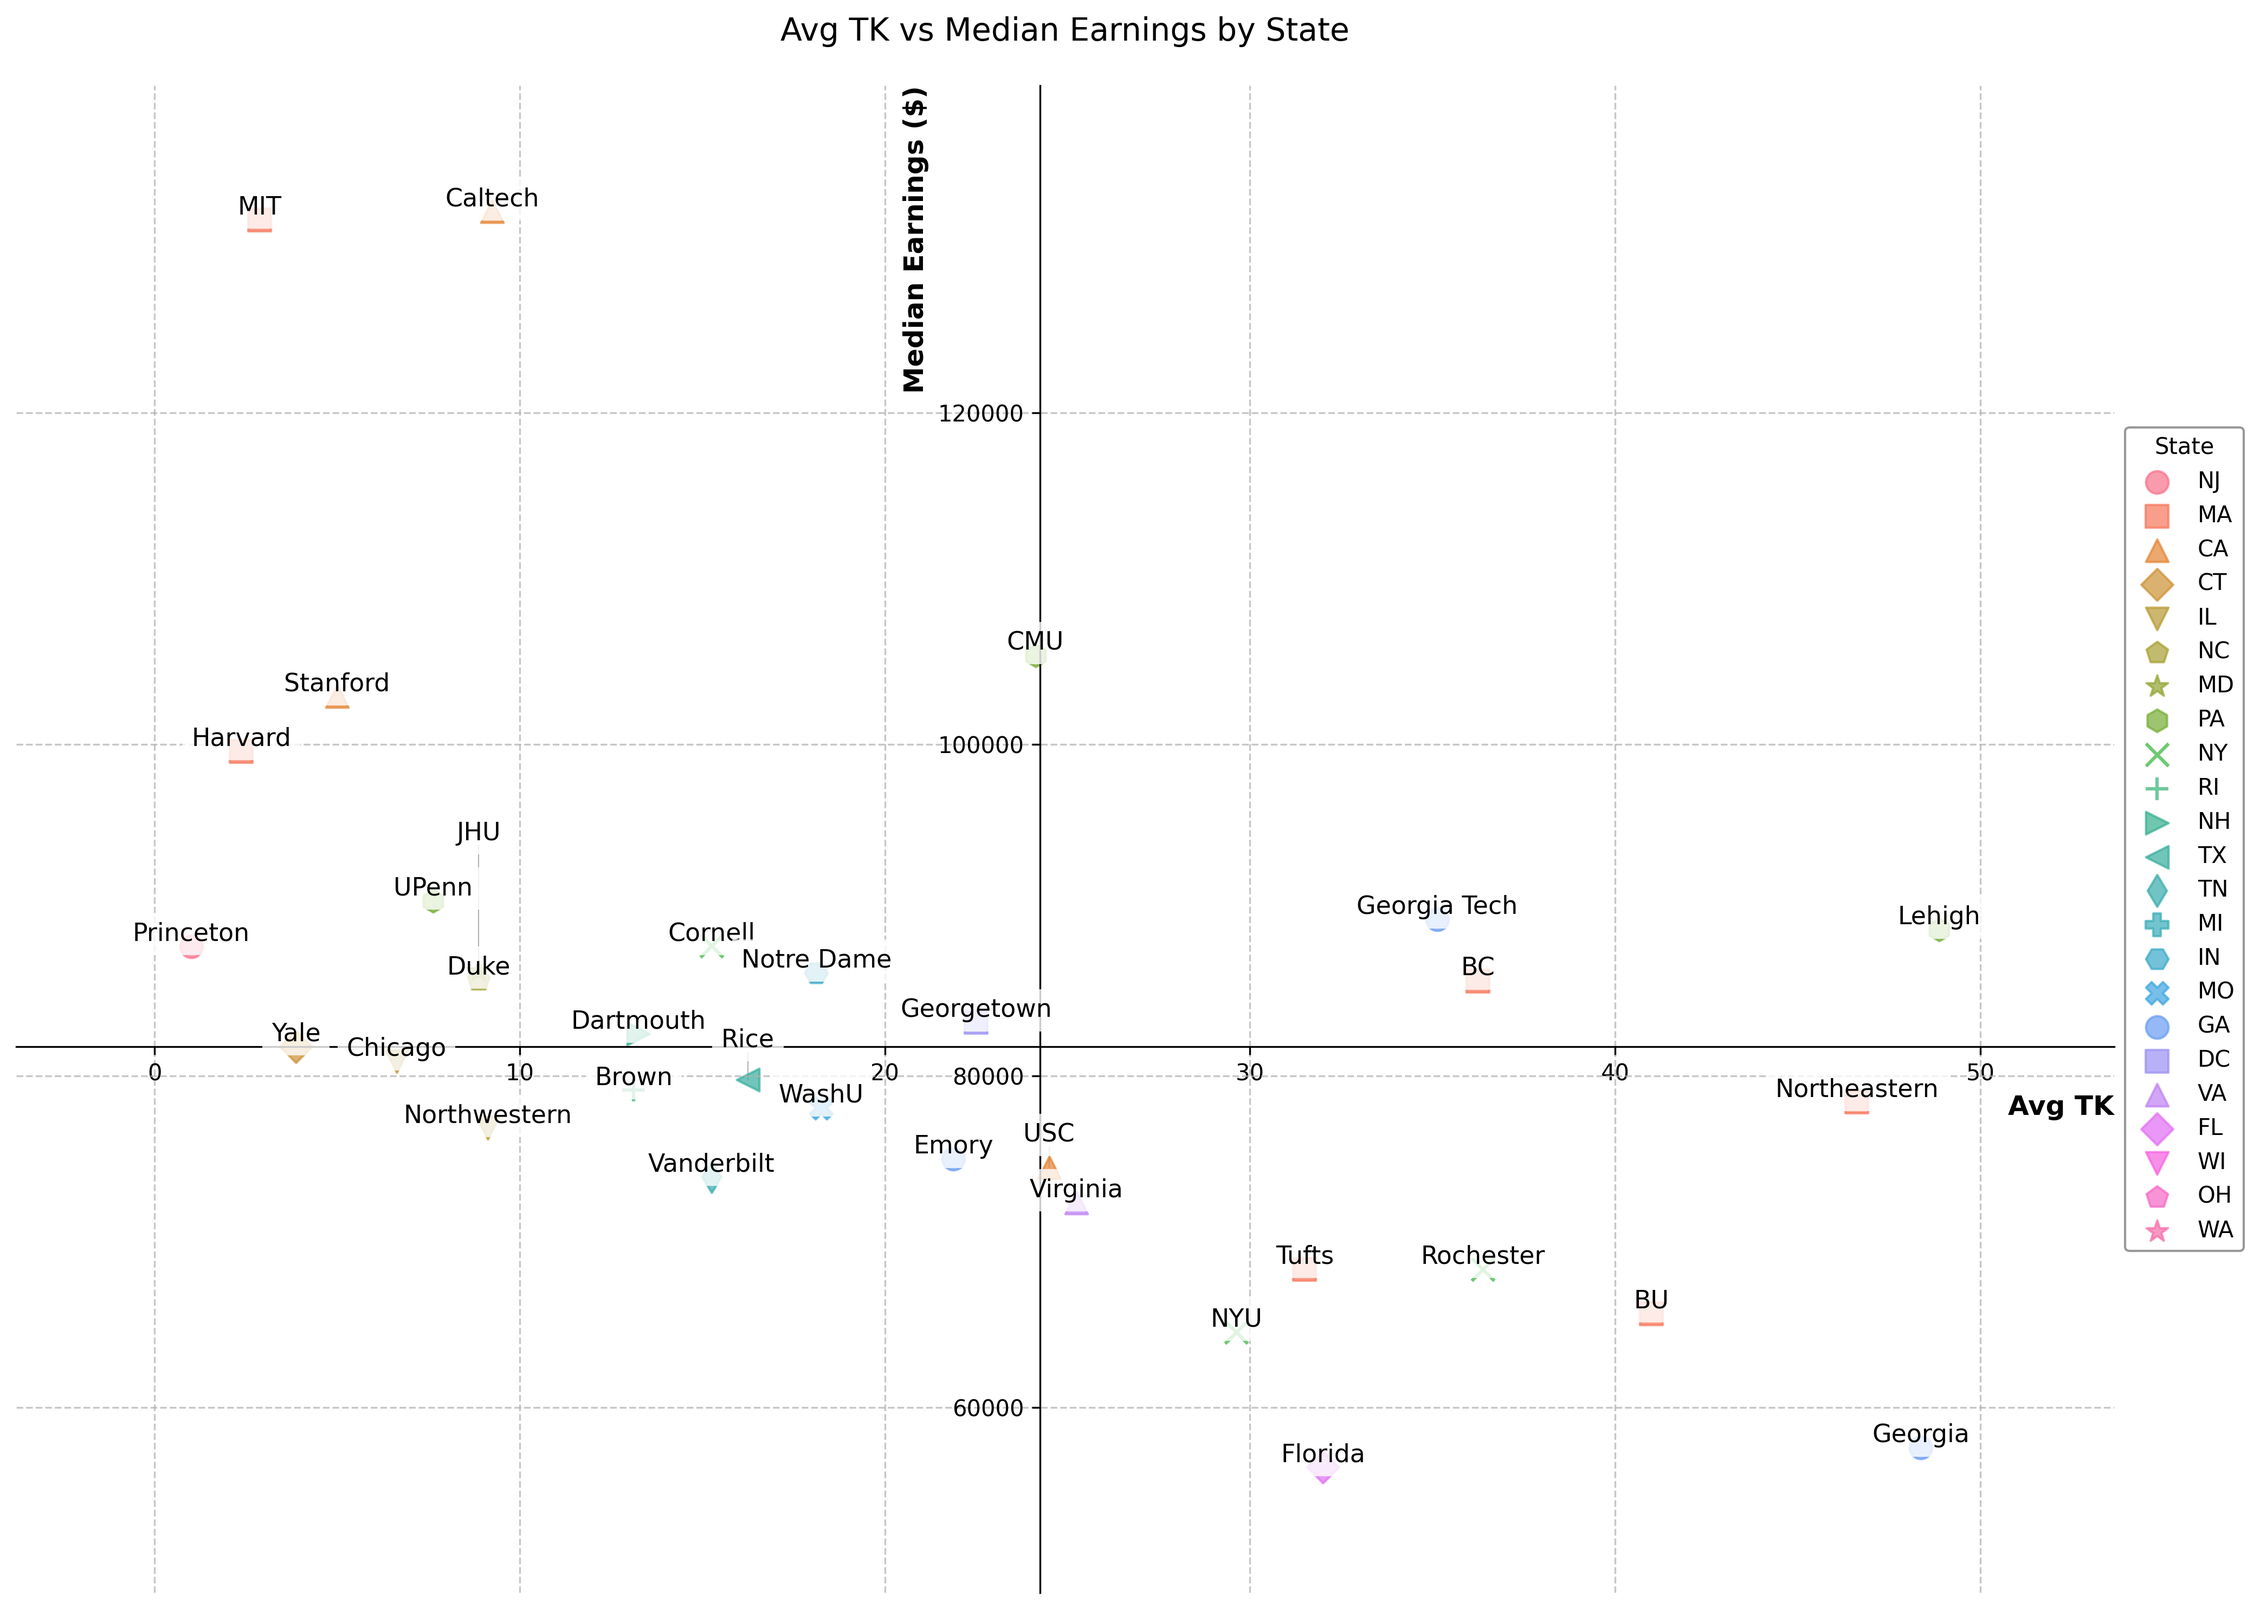
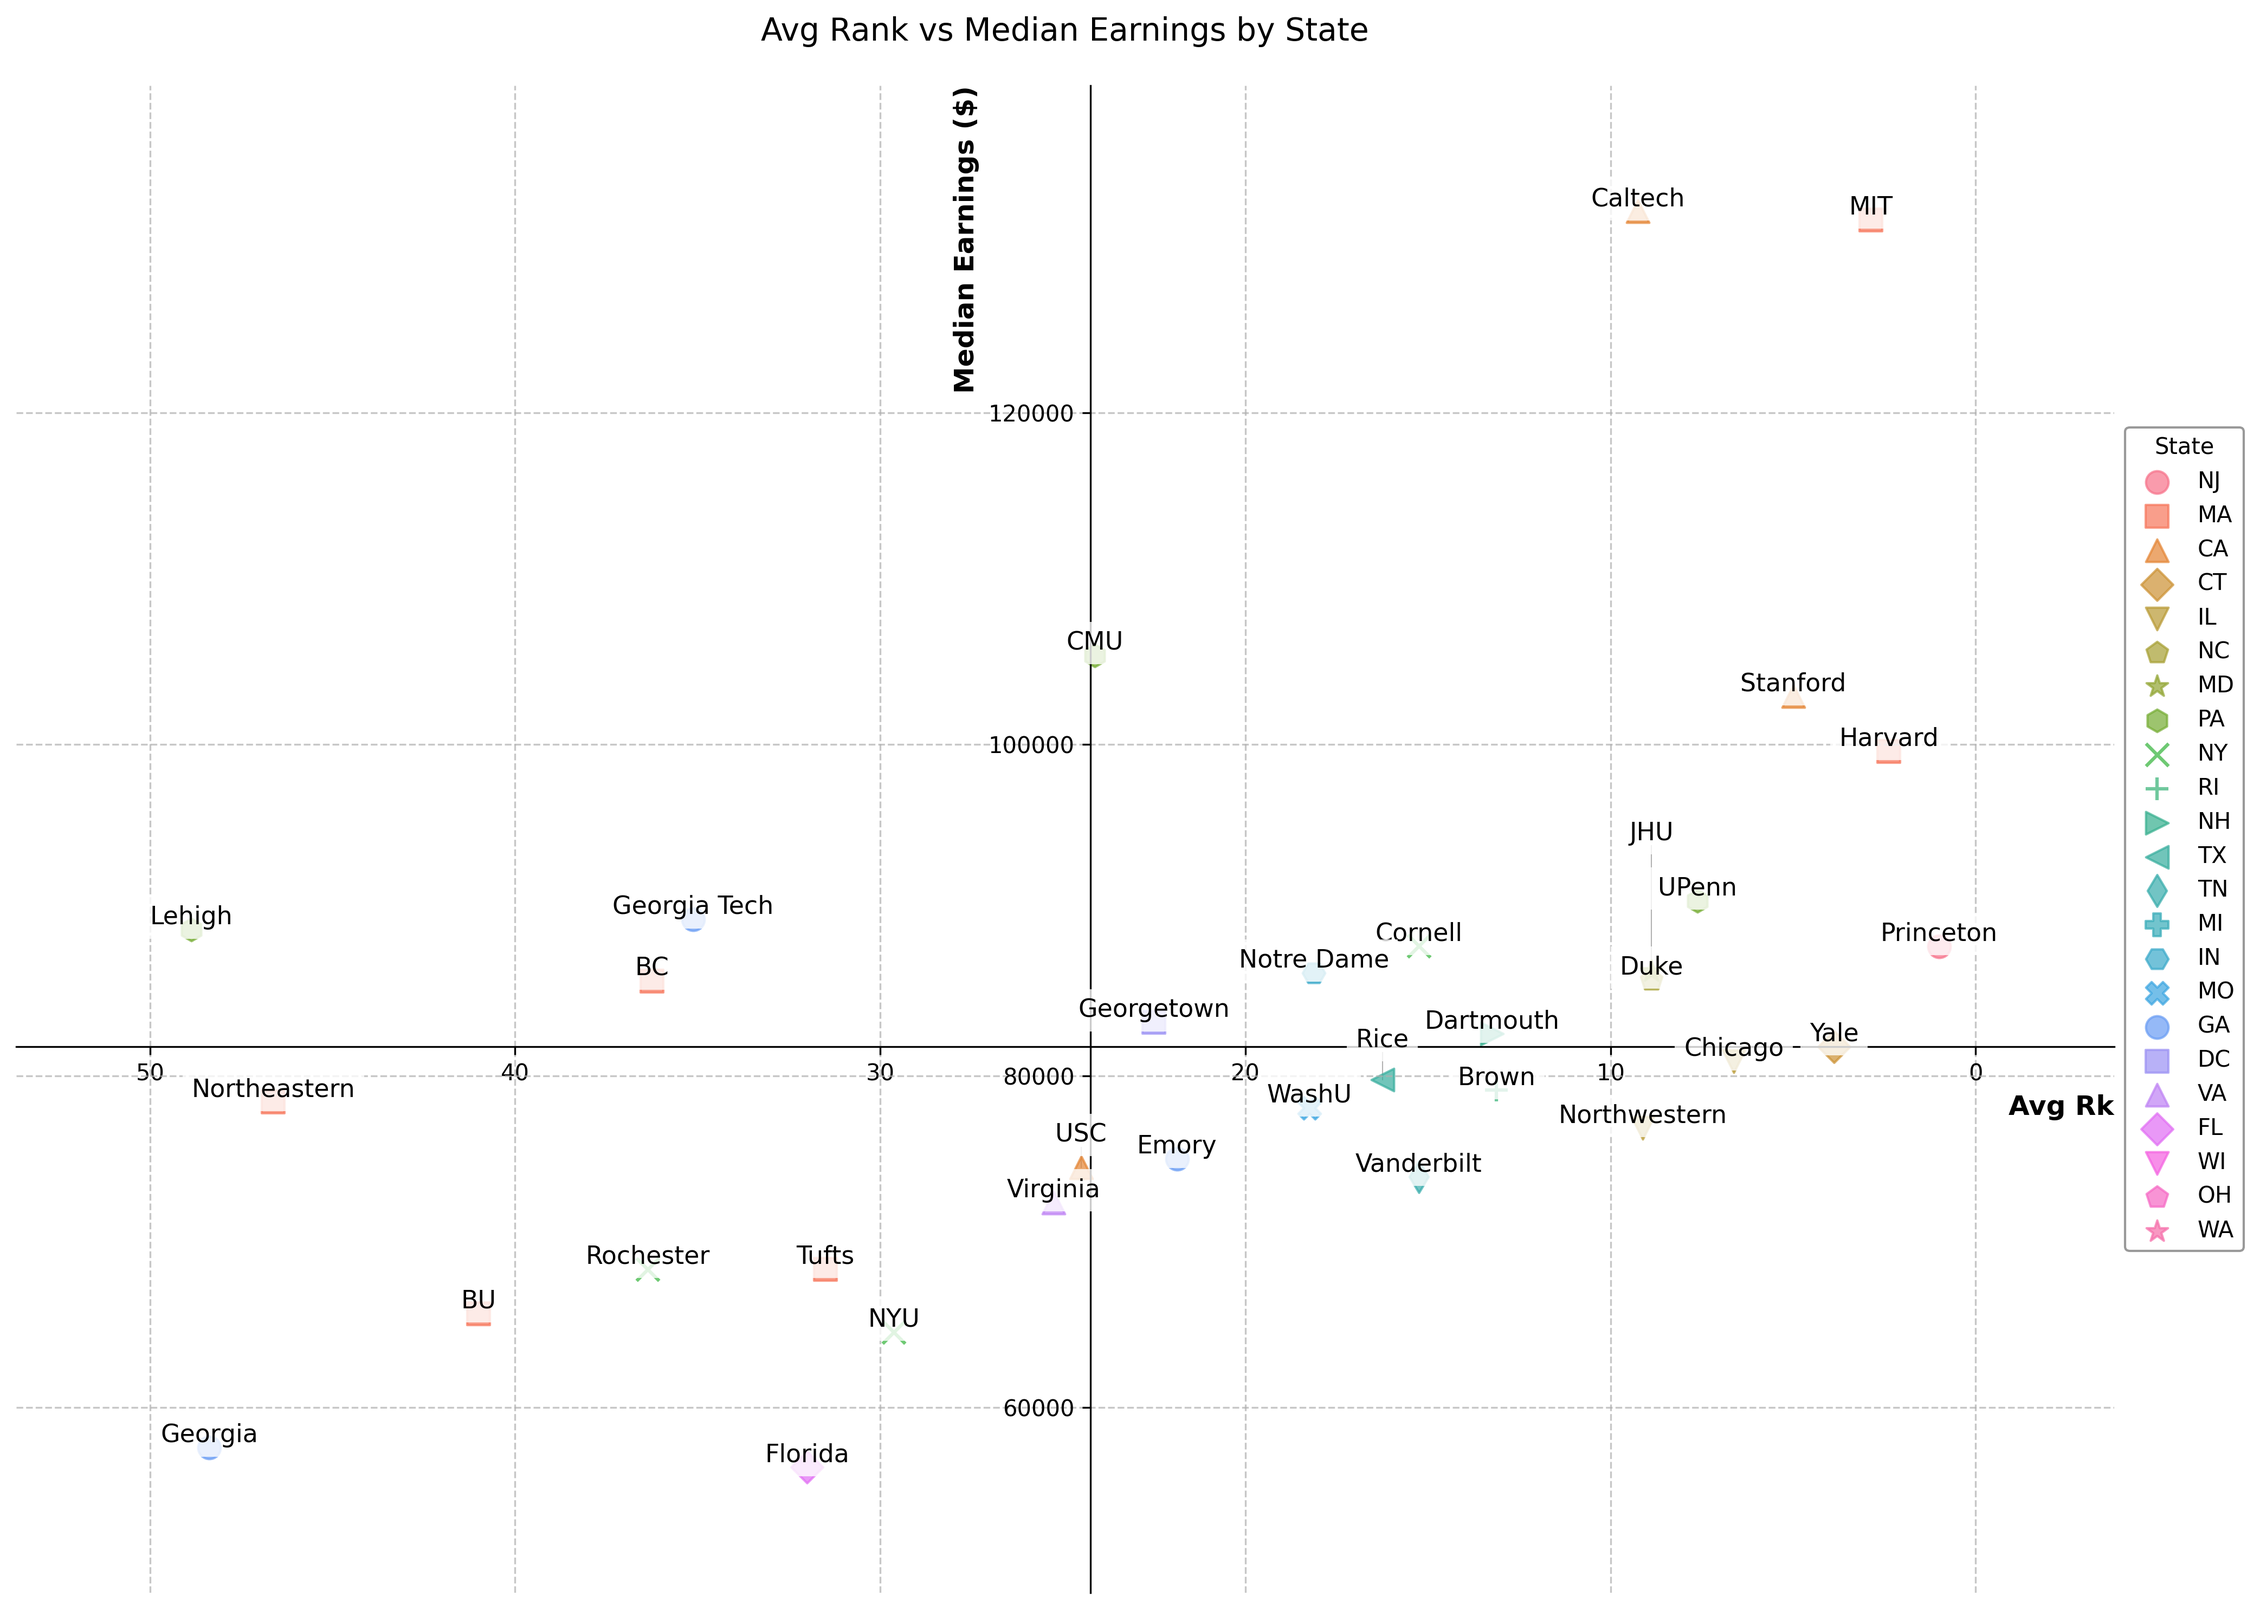
fix the visualization part of analysis

diff --git a/code/analysis.py b/code/analysis.py
@@ -192,6 +192,10 @@ def generate_all_plots():
         ax.xaxis.set_ticks_position('bottom')
         ax.yaxis.set_ticks_position('left')
 
+        # Reverse x-axis if specified
+        if x_col in ['sort_rank', 'avgtk']:
+            ax.invert_xaxis()
+
         plt.grid(True, linestyle='--', alpha=0.7)
 
         df_sorted = df.sort_values(x_col).reset_index(drop=True)
@@ -224,4 +228,5 @@ def generate_all_plots():
                  'Standardized Tuition vs Median Earnings by State', 0)
     plot_scatter(df, state_style, 'sat_score_std', 'Standardized SAT Score',
                  'Standardized SAT Score vs Median Earnings by State', 0)
-    plot_scatter(df, state_style, 'avgtk', 'Avg TK', 'Avg TK vs Median Earnings by State', df['avgtk'].median())
+    plot_scatter(df, state_style, 'avgtk', 'Avg Rk',
+                 'Avg Rank vs Median Earnings by State', df['avgtk'].median())
